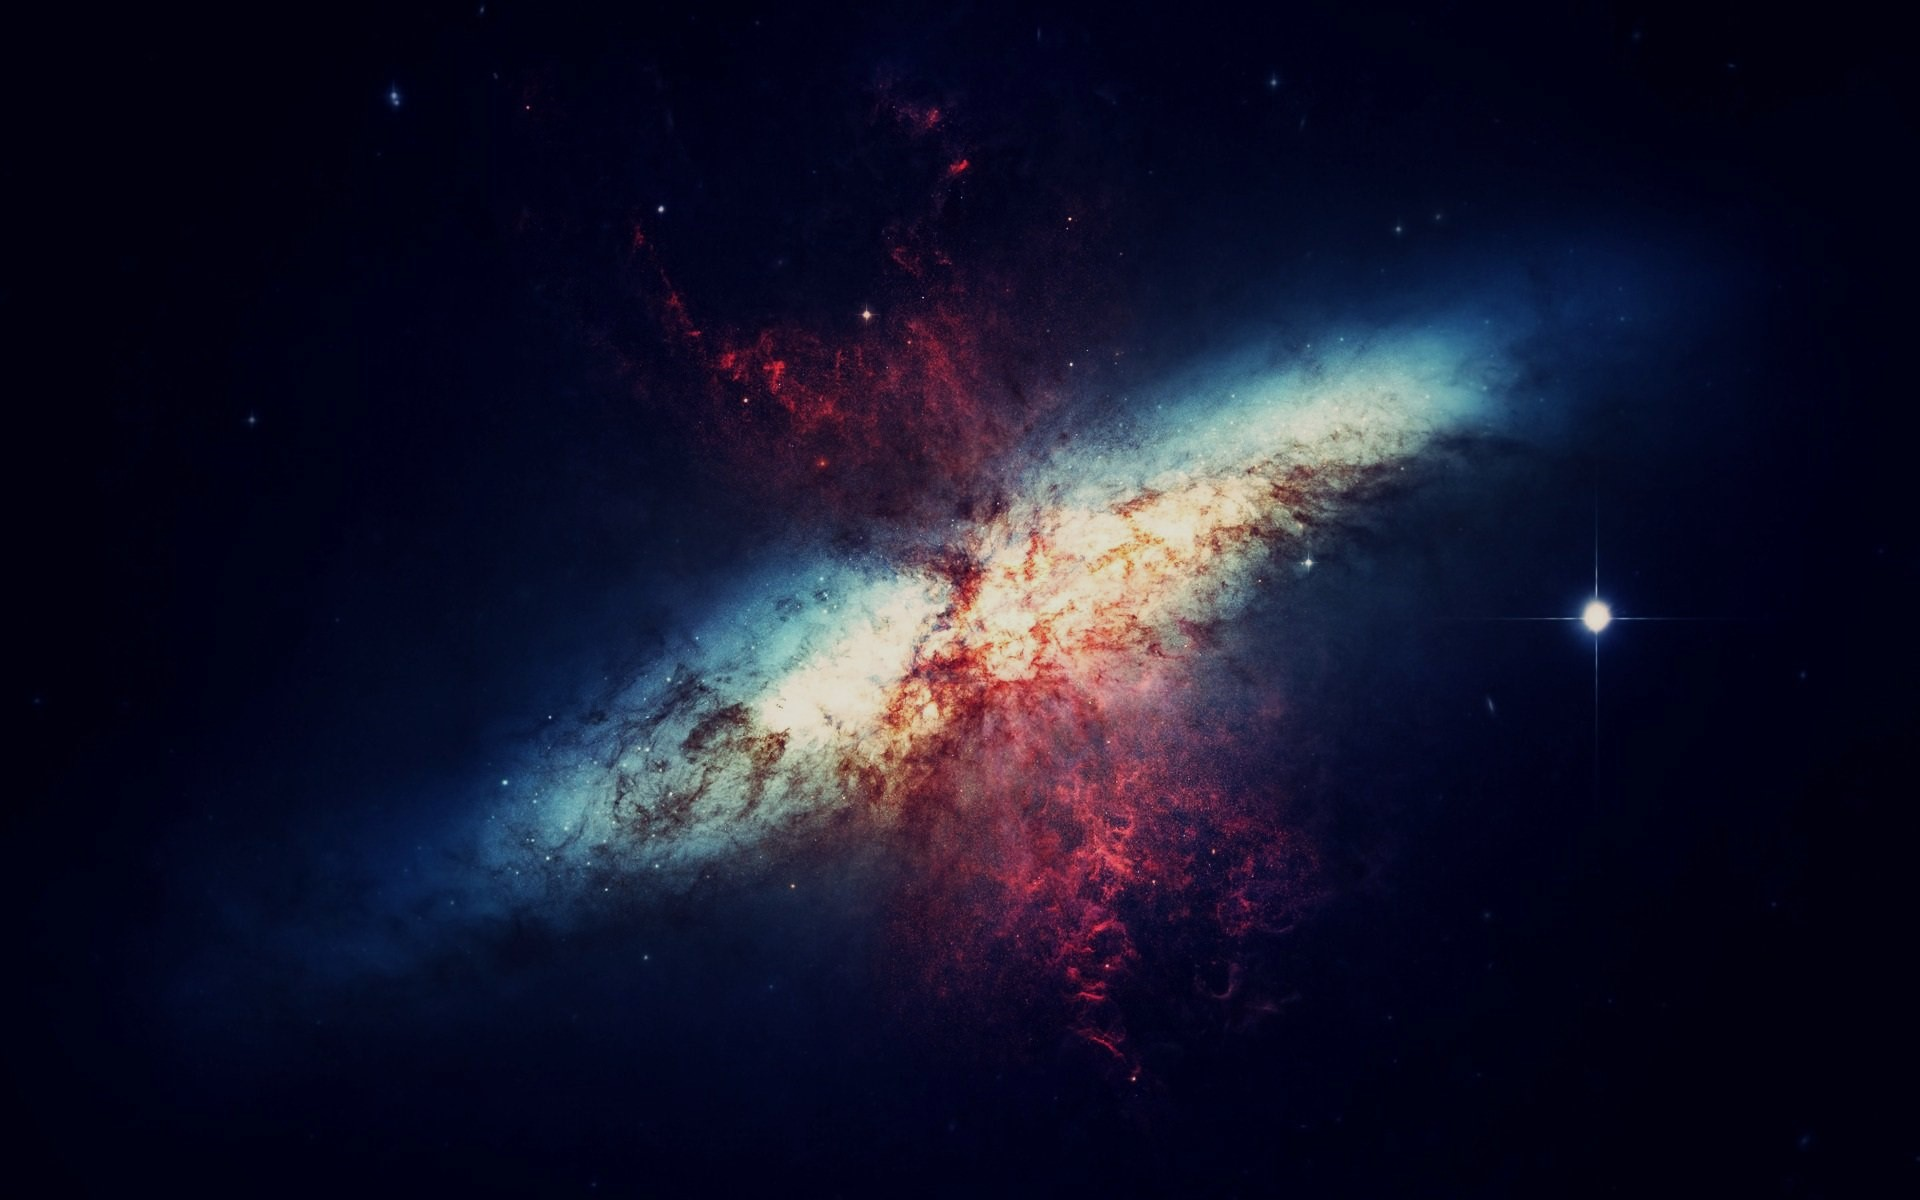
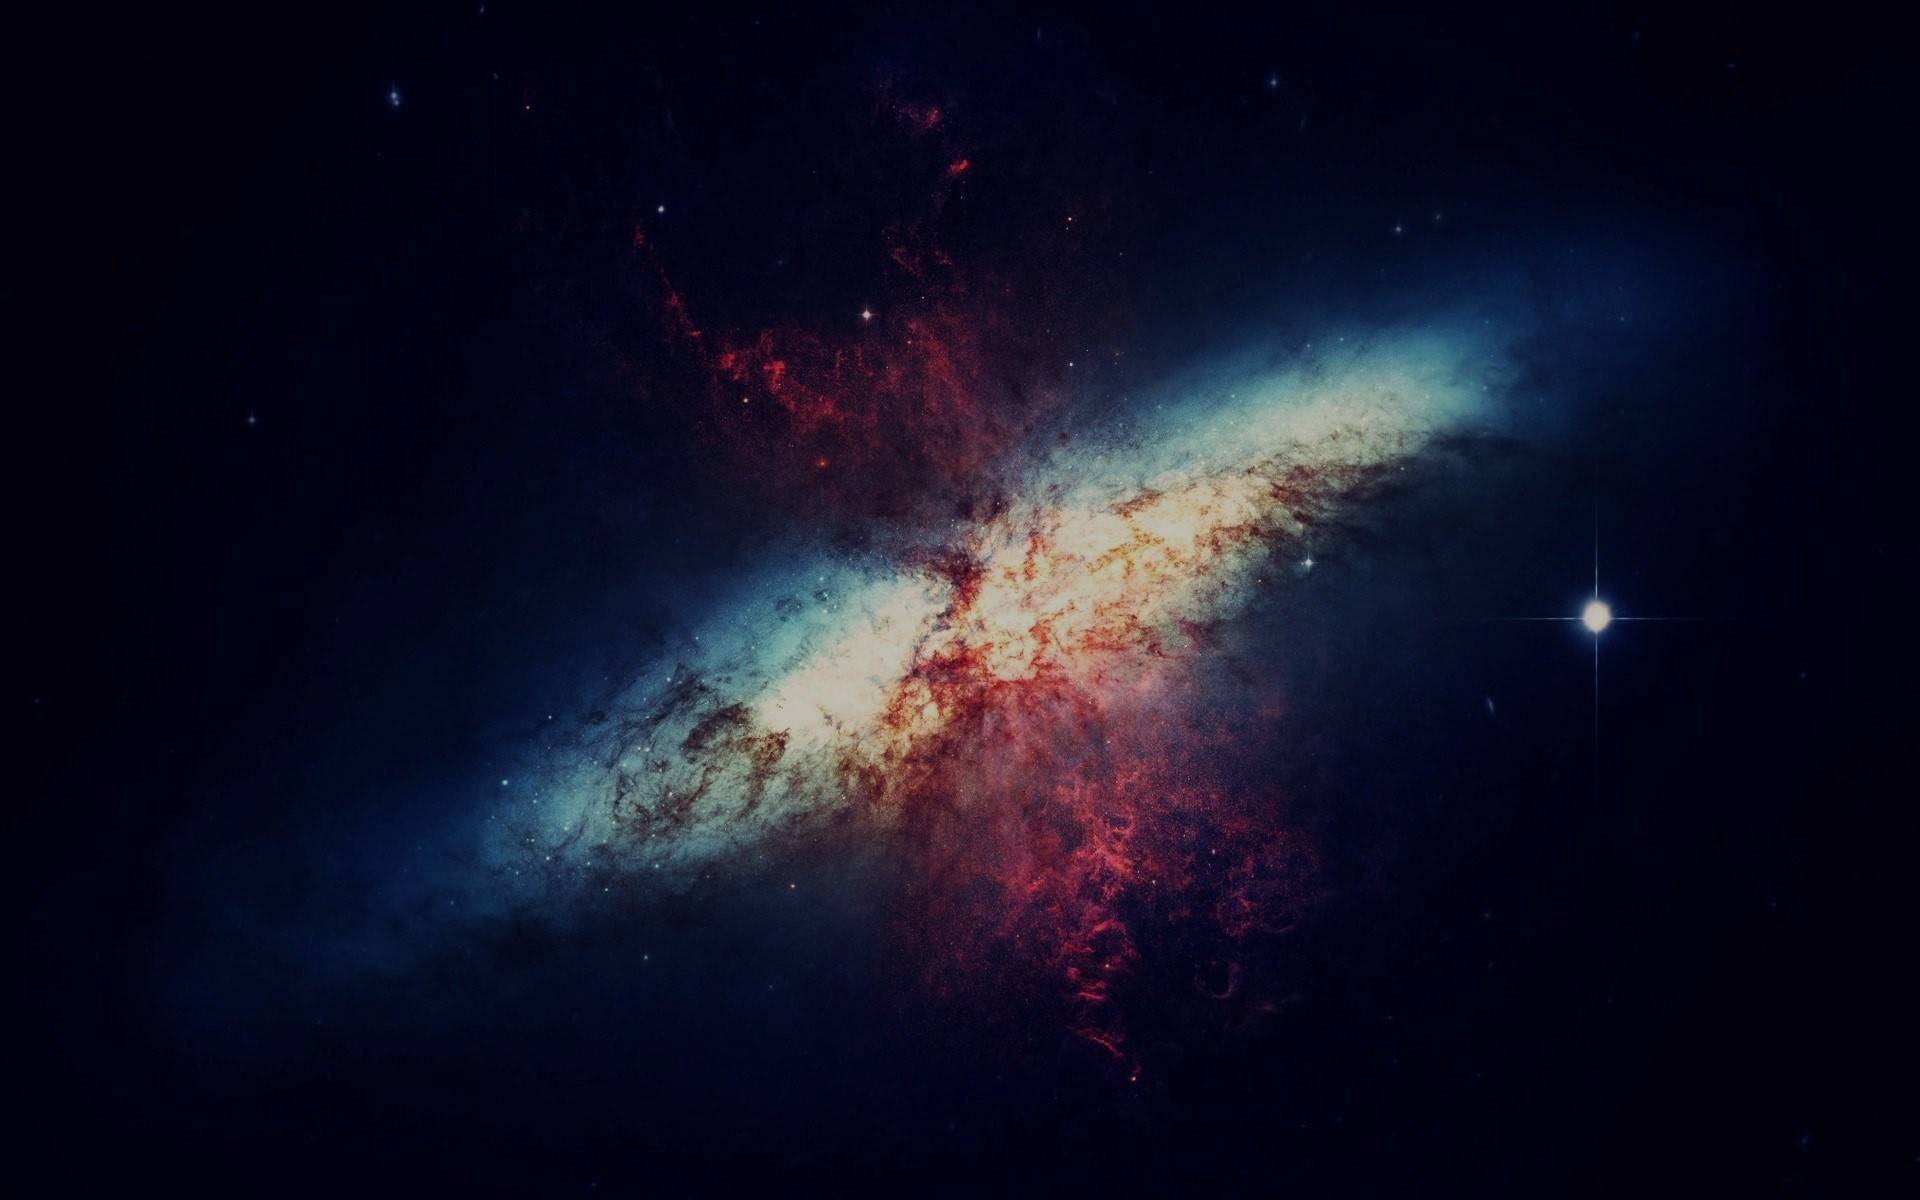
fix homepage overflow, fix moon and arrow photo, change HistoryPage font sizes, fix card

Changed region(s): [[0.2812, 0.2775, 0.7812, 0.7092], [0.5312, 0.6475, 0.5938, 0.74], [0.8125, 0.4933, 0.8438, 0.5242]]

diff --git a/src/components/Pages/SolarSystem/SolarSystem.tsx b/src/components/Pages/SolarSystem/SolarSystem.tsx
@@ -13,6 +13,7 @@ import {
 } from "./PlanetsInfo";
 import "./SolarSystem.scss";
 import { motion } from "framer-motion";
+import MOON_IMG from "../../../../public/planets/moon.png";
 
 const SolarSystem = () => {
   return (
@@ -34,6 +35,7 @@ const SolarSystem = () => {
             years={SUN.years}
             planetImgPath={SUN.planetImgPath}
             onRight={true}
+            showInfo={SUN.showInfo}
           ></Card>
         </motion.div>
         <motion.div
@@ -50,6 +52,7 @@ const SolarSystem = () => {
             years={MERCURY.years}
             planetImgPath={MERCURY.planetImgPath}
             onRight={false}
+            showInfo={MERCURY.showInfo}
           ></Card>
         </motion.div>
         <motion.div
@@ -66,6 +69,7 @@ const SolarSystem = () => {
             years={VENUS.years}
             planetImgPath={VENUS.planetImgPath}
             onRight={true}
+            showInfo={VENUS.showInfo}
           ></Card>
         </motion.div>
         <motion.div
@@ -77,10 +81,7 @@ const SolarSystem = () => {
         >
           <div>
             <Link to="/moon" preventScrollReset={true}>
-              <img
-                src="../../../../public/planets/moon.png"
-                className="moon-img"
-              ></img>
+              <img src={MOON_IMG} className="moon-img"></img>
             </Link>
           </div>
           <Card
@@ -91,6 +92,7 @@ const SolarSystem = () => {
             years={EARTH.years}
             planetImgPath={EARTH.planetImgPath}
             onRight={false}
+            showInfo={EARTH.showInfo}
           ></Card>
         </motion.div>
         <motion.div
@@ -107,6 +109,7 @@ const SolarSystem = () => {
             years={MARS.years}
             planetImgPath={MARS.planetImgPath}
             onRight={true}
+            showInfo={MARS.showInfo}
           ></Card>
         </motion.div>
         <motion.div
@@ -123,6 +126,7 @@ const SolarSystem = () => {
             years={JUPITER.years}
             planetImgPath={JUPITER.planetImgPath}
             onRight={false}
+            showInfo={JUPITER.showInfo}
           ></Card>
         </motion.div>
         <motion.div
@@ -139,6 +143,7 @@ const SolarSystem = () => {
             years={SATURN.years}
             planetImgPath={SATURN.planetImgPath}
             onRight={true}
+            showInfo={SATURN.showInfo}
           ></Card>
         </motion.div>
         <motion.div
@@ -155,6 +160,7 @@ const SolarSystem = () => {
             years={URANUS.years}
             planetImgPath={URANUS.planetImgPath}
             onRight={false}
+            showInfo={URANUS.showInfo}
           ></Card>
         </motion.div>
         <motion.div
@@ -171,6 +177,7 @@ const SolarSystem = () => {
             years={NEPTUNE.years}
             planetImgPath={NEPTUNE.planetImgPath}
             onRight={true}
+            showInfo={NEPTUNE.showInfo}
           ></Card>
         </motion.div>
       </div>

diff --git a/src/components/Card/Card.tsx b/src/components/Card/Card.tsx
@@ -10,7 +10,36 @@ const Card = ({
   years,
   planetImgPath,
   onRight,
+  showInfo,
 }: CardPlanetInfo) => {
+  const displayPlanetFigures = () => {
+    return (
+      <div className="planet-figures">
+        <div className="single-planet-figure">
+          <div className="measure">
+            <h3>{years}</h3>
+            <h3 className="measure-text">Earth Years</h3>
+          </div>
+          <h3 className="description-text">Length Of Year</h3>
+        </div>
+        <div className="single-planet-figure">
+          <div className="measure">
+            <h3>{distance}</h3>
+            <h3 className="measure-text">AU</h3>
+          </div>
+          <h3 className="description-text">Distance from sun</h3>
+        </div>
+        <div className="single-planet-figure">
+          <div className="measure">
+            <h3>{moons}</h3>
+            <img src={PLANET} id="planet-icon"></img>
+          </div>
+          <h3 className="description-text">Moons</h3>
+        </div>
+      </div>
+    );
+  };
+
   return (
     <div
       className={
@@ -27,29 +56,11 @@ const Card = ({
         <div className="planet-overview">
           <p>{overview}</p>
         </div>
-        <div className="planet-figures">
-          <div className="single-planet-figure">
-            <div className="measure">
-              <h3>{years}</h3>
-              <h3 className="measure-text">Earth Years</h3>
-            </div>
-            <h3 className="description-text">Length Of Year</h3>
-          </div>
-          <div className="single-planet-figure">
-            <div className="measure">
-              <h3>{distance}</h3>
-              <h3 className="measure-text">AU</h3>
-            </div>
-            <h3 className="description-text">Distance from sun</h3>
-          </div>
-          <div className="single-planet-figure">
-            <div className="measure">
-              <h3>{moons}</h3>
-              <img src={PLANET} id="planet-icon"></img>
-            </div>
-            <h3 className="description-text">Moons</h3>
-          </div>
-        </div>
+        {showInfo == true ? (
+          displayPlanetFigures()
+        ) : (
+          <div id="space-between-text" />
+        )}
       </div>
     </div>
   );

diff --git a/src/components/Pages/SolarSystem/PlanetsInfo.tsx b/src/components/Pages/SolarSystem/PlanetsInfo.tsx
@@ -6,6 +6,7 @@ const SUN = {
   moons: 330000,
   years: 4.5,
   planetImgPath: "Sun.png",
+  showInfo: false,
 };
 
 const VENUS = {
@@ -16,6 +17,7 @@ const VENUS = {
   moons: 0,
   years: 225,
   planetImgPath: "Venus.png",
+  showInfo: true,
 };
 
 const MERCURY = {
@@ -26,6 +28,7 @@ const MERCURY = {
   moons: 0,
   years: 88,
   planetImgPath: "Mercury.png",
+  showInfo: true,
 };
 
 const EARTH = {
@@ -36,6 +39,7 @@ const EARTH = {
   moons: 1,
   years: 1,
   planetImgPath: "Earth.png",
+  showInfo: true,
 };
 
 const MARS = {
@@ -46,6 +50,7 @@ const MARS = {
   moons: 2,
   years: 1.88,
   planetImgPath: "Mars.png",
+  showInfo: true,
 };
 
 const JUPITER = {
@@ -56,6 +61,7 @@ const JUPITER = {
   moons: 79,
   years: 11.86,
   planetImgPath: "Jupiter.png",
+  showInfo: true,
 };
 
 const SATURN = {
@@ -66,6 +72,7 @@ const SATURN = {
   moons: 62,
   years: 29.45,
   planetImgPath: "Saturn_without_ring.png",
+  showInfo: true,
 };
 
 const URANUS = {
@@ -76,6 +83,7 @@ const URANUS = {
   moons: 27,
   years: 84,
   planetImgPath: "Uran.png",
+  showInfo: true,
 };
 
 const NEPTUNE = {
@@ -86,6 +94,7 @@ const NEPTUNE = {
   moons: 14,
   years: 164.81,
   planetImgPath: "Neptun.png",
+  showInfo: true,
 };
 
 export { SUN, VENUS, MERCURY, EARTH, MARS, JUPITER, SATURN, URANUS, NEPTUNE };

diff --git a/src/components/Pages/MoonPage/MoonPage.tsx b/src/components/Pages/MoonPage/MoonPage.tsx
@@ -3,13 +3,14 @@ import "./MoonPage.scss";
 import MOON from "./MoonInfo";
 import { Link } from "react-router-dom";
 import { motion } from "framer-motion";
+import BACK_ARROW from "../../../../public/arrow.svg";
 
 const MoonPage = () => {
   return (
     <div className="background-moon">
       <div className="go-back-container">
         <Link to="/SolarSystem">
-          <img src="../../../../public/arrow.svg" className="arrow-img"></img>
+          <img src={BACK_ARROW} className="arrow-img"></img>
         </Link>
       </div>
       <motion.div
@@ -26,6 +27,7 @@ const MoonPage = () => {
           years={MOON.age}
           planetImgPath={MOON.planetImgPath}
           onRight={true}
+          showInfo={false}
         />
       </motion.div>
     </div>

diff --git a/src/components/Pages/HistoryPage/HistoryPage.tsx b/src/components/Pages/HistoryPage/HistoryPage.tsx
@@ -32,6 +32,7 @@ const HistoryPage = () => {
         <div className="parallax-content">
           <Parallax pages={14.5} ref={parallax}>
             <ParallaxLayer sticky={{ start: 0, end: 15 }}>
+              {/* TO DO NAVBAR CONTAINER ŻEBY NIE PRZYSŁANIAŁ PORUSZANIA SIĘ NA KLIK */}
               <Navbar />
             </ParallaxLayer>
             <ParallaxLayer

diff --git a/src/components/Pages/HomePage/HomePage.scss b/src/components/Pages/HomePage/HomePage.scss
@@ -1,9 +1,5 @@
 @import "../../../styles/constants.scss";
 
-// body {
-//   overflow-y: hidden;
-// }
-
 .background {
   display: flex;
   flex-direction: column;
@@ -22,6 +18,7 @@
   justify-content: center;
   align-items: center;
   gap: 2rem;
+  overflow-y: hidden;
 
   .home-info-section {
     margin-top: 11vh;

diff --git a/src/components/Pages/HistoryPage/HistoryPage.scss b/src/components/Pages/HistoryPage/HistoryPage.scss
@@ -1,7 +1,9 @@
 @import "../../../styles/constants.scss";
 
 .history-page-background {
-  @include page-background-image("../../../assets/HistoryPage/galaxy_dark.jpg");
+  @include page-background-image(
+    "../../../assets/HistoryPage/galaxy_dark_2.jpg"
+  );
 }
 
 .history-wrapper {

diff --git a/src/components/Card/Card.scss b/src/components/Card/Card.scss
@@ -32,6 +32,10 @@
     display: flex;
     flex-direction: column;
 
+    #space-between-text {
+      margin-bottom: 10rem;
+    }
+
     .planet-overview {
       display: flex;
       justify-content: center;

diff --git a/src/components/Pages/SolarSystem/SolarSystem.scss b/src/components/Pages/SolarSystem/SolarSystem.scss
@@ -2,7 +2,7 @@
 
 .solar-system-background {
   @include page-background-image(
-    "../../../assets/SolarSystemPageImages/gwiazdy_2.jpg"
+    "../../../assets/SolarSystemPageImages/stars.jpg"
   );
 }
 

diff --git a/src/components/Card/CardPlanetInfro.tsx b/src/components/Card/CardPlanetInfro.tsx
@@ -6,4 +6,5 @@ export default interface CardPlanetInfo {
   years: number;
   planetImgPath: string;
   onRight: boolean;
+  showInfo: boolean;
 }

diff --git a/src/components/Pages/MoonPage/MoonInfo.tsx b/src/components/Pages/MoonPage/MoonInfo.tsx
@@ -6,6 +6,7 @@ const MOON = {
   weight: 0,
   age: 4.5,
   planetImgPath: "moon.png",
+  showInfo: false,
 };
 
 export default MOON;
